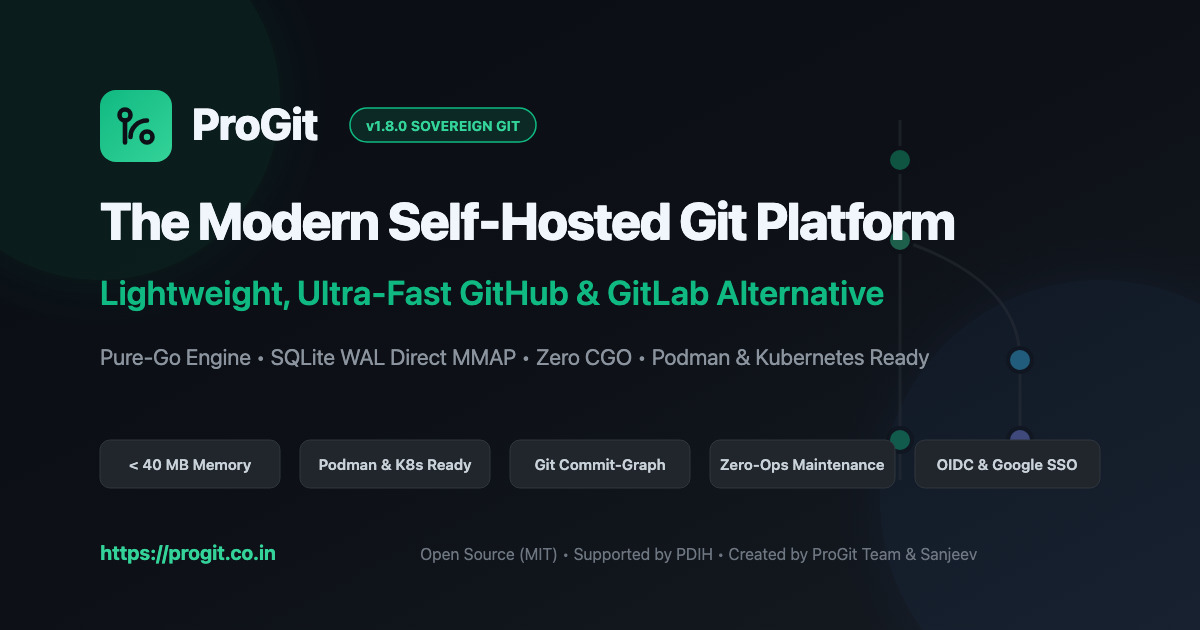
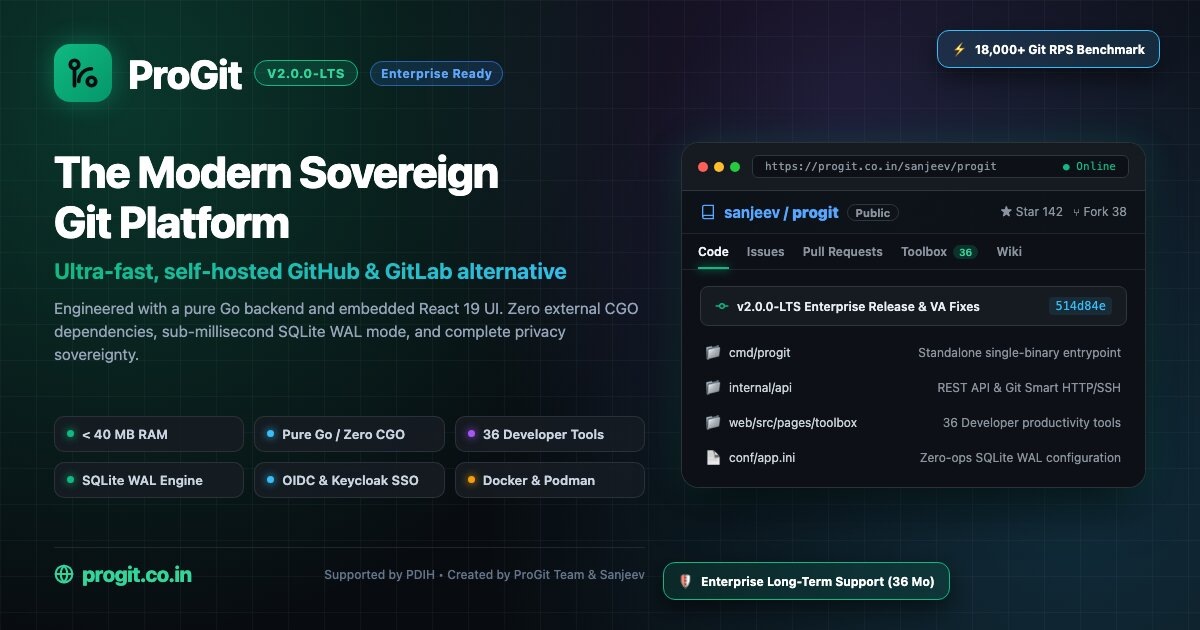
feat(seo): add high-res theme-complimenting Open Graph image and WhatsApp/Facebook meta tags

diff --git a/docs/index.html b/docs/index.html
@@ -24,20 +24,34 @@
   <meta property="og:description" content="Looking for git services or a self-hosted GitHub, Gogs, or Gitea alternative? ProGit is a high-performance Git collaboration platform written in pure Go &amp; React 19 with zero CGO dependencies.">
   <meta property="og:url" content="https://progit.co.in/">
   <meta property="og:site_name" content="ProGit">
+
+  <!-- Primary Image: Highly optimized JPEG for WhatsApp, Facebook, LinkedIn (102 KB < 300 KB limit) -->
+  <meta property="og:image" content="https://progit.co.in/progit-og.jpg">
+  <meta property="og:image:secure_url" content="https://progit.co.in/progit-og.jpg">
+  <meta property="og:image:type" content="image/jpeg">
+  <meta property="og:image:width" content="1200">
+  <meta property="og:image:height" content="630">
+  <meta property="og:image:alt" content="ProGit v2.0.0-LTS — The Modern Sovereign Self-Hosted Git Platform">
+
+  <!-- Secondary PNG fallback -->
   <meta property="og:image" content="https://progit.co.in/progit-og.png">
   <meta property="og:image:secure_url" content="https://progit.co.in/progit-og.png">
   <meta property="og:image:type" content="image/png">
   <meta property="og:image:width" content="1200">
   <meta property="og:image:height" content="630">
-  <meta property="og:image:alt" content="ProGit — The Modern Sovereign Self-Hosted Git Platform">
+
+  <!-- WhatsApp, Telegram & Search Engine Image Link Fallbacks -->
+  <link rel="image_src" href="https://progit.co.in/progit-og.jpg">
+  <meta itemprop="image" content="https://progit.co.in/progit-og.jpg">
+  <meta name="image" content="https://progit.co.in/progit-og.jpg">
 
   <!-- Twitter Card -->
   <meta name="twitter:card" content="summary_large_image">
   <meta name="twitter:url" content="https://progit.co.in/">
   <meta name="twitter:title" content="ProGit — Modern Self-Hosted Git Service | GitHub, Gogs &amp; Gitea Alternative">
   <meta name="twitter:description" content="Lightweight GitHub, Gogs, and Gitea alternative written in pure Go with zero CGO dependencies. < 40 MB RAM, Docker &amp; Podman ready.">
-  <meta name="twitter:image" content="https://progit.co.in/progit-og.png">
-  <meta name="twitter:image:alt" content="ProGit — The Modern Sovereign Self-Hosted Git Platform">
+  <meta name="twitter:image" content="https://progit.co.in/progit-og.jpg">
+  <meta name="twitter:image:alt" content="ProGit v2.0.0-LTS — The Modern Sovereign Self-Hosted Git Platform">
 
   <!-- Schema.org JSON-LD Structured Data for Google Rich Snippets -->
   <script type="application/ld+json">

diff --git a/index.html b/index.html
@@ -24,20 +24,34 @@
   <meta property="og:description" content="Looking for git services or a self-hosted GitHub, Gogs, or Gitea alternative? ProGit is a high-performance Git collaboration platform written in pure Go &amp; React 19 with zero CGO dependencies.">
   <meta property="og:url" content="https://progit.co.in/">
   <meta property="og:site_name" content="ProGit">
+
+  <!-- Primary Image: Highly optimized JPEG for WhatsApp, Facebook, LinkedIn (102 KB < 300 KB limit) -->
+  <meta property="og:image" content="https://progit.co.in/progit-og.jpg">
+  <meta property="og:image:secure_url" content="https://progit.co.in/progit-og.jpg">
+  <meta property="og:image:type" content="image/jpeg">
+  <meta property="og:image:width" content="1200">
+  <meta property="og:image:height" content="630">
+  <meta property="og:image:alt" content="ProGit v2.0.0-LTS — The Modern Sovereign Self-Hosted Git Platform">
+
+  <!-- Secondary PNG fallback -->
   <meta property="og:image" content="https://progit.co.in/progit-og.png">
   <meta property="og:image:secure_url" content="https://progit.co.in/progit-og.png">
   <meta property="og:image:type" content="image/png">
   <meta property="og:image:width" content="1200">
   <meta property="og:image:height" content="630">
-  <meta property="og:image:alt" content="ProGit — The Modern Sovereign Self-Hosted Git Platform">
+
+  <!-- WhatsApp, Telegram & Search Engine Image Link Fallbacks -->
+  <link rel="image_src" href="https://progit.co.in/progit-og.jpg">
+  <meta itemprop="image" content="https://progit.co.in/progit-og.jpg">
+  <meta name="image" content="https://progit.co.in/progit-og.jpg">
 
   <!-- Twitter Card -->
   <meta name="twitter:card" content="summary_large_image">
   <meta name="twitter:url" content="https://progit.co.in/">
   <meta name="twitter:title" content="ProGit — Modern Self-Hosted Git Service | GitHub, Gogs &amp; Gitea Alternative">
   <meta name="twitter:description" content="Lightweight GitHub, Gogs, and Gitea alternative written in pure Go with zero CGO dependencies. < 40 MB RAM, Docker &amp; Podman ready.">
-  <meta name="twitter:image" content="https://progit.co.in/progit-og.png">
-  <meta name="twitter:image:alt" content="ProGit — The Modern Sovereign Self-Hosted Git Platform">
+  <meta name="twitter:image" content="https://progit.co.in/progit-og.jpg">
+  <meta name="twitter:image:alt" content="ProGit v2.0.0-LTS — The Modern Sovereign Self-Hosted Git Platform">
 
   <!-- Schema.org JSON-LD Structured Data for Google Rich Snippets -->
   <script type="application/ld+json">

diff --git a/docs/slides.html b/docs/slides.html
@@ -17,9 +17,10 @@
   <meta property="og:description" content="Comprehensive educational slide deck for ProGit: Pure-Go Git architecture, container installation, Super Administration, 24/7 operations, Developer Toolbox, verified 18k+ RPS performance, and 80% lower TCO.">
   <meta property="og:url" content="https://progit.co.in/slides.html">
   <meta property="og:site_name" content="ProGit">
-  <meta property="og:image" content="https://progit.co.in/progit-og.png">
-  <meta property="og:image:secure_url" content="https://progit.co.in/progit-og.png">
-  <meta property="og:image:type" content="image/png">
+  <meta property="og:image" content="https://progit.co.in/progit-og.jpg">
+  <meta property="og:image:secure_url" content="https://progit.co.in/progit-og.jpg">
+  <meta property="og:image:type" content="image/jpeg">
+  <link rel="image_src" href="https://progit.co.in/progit-og.jpg">
   <meta property="og:image:width" content="1200">
   <meta property="og:image:height" content="630">
   <meta property="og:image:alt" content="ProGit Masterclass — Architecture, Administration &amp; Operations">
@@ -29,7 +30,7 @@
   <meta name="twitter:url" content="https://progit.co.in/slides.html">
   <meta name="twitter:title" content="ProGit Masterclass — Architecture, Administration, Operations &amp; ROI">
   <meta name="twitter:description" content="Comprehensive educational slide deck for ProGit: Pure-Go Git architecture, container installation, Super Administration, 24/7 operations, and verified performance.">
-  <meta name="twitter:image" content="https://progit.co.in/progit-og.png">
+  <meta name="twitter:image" content="https://progit.co.in/progit-og.jpg">
   <meta name="twitter:image:alt" content="ProGit Masterclass — Architecture, Administration &amp; Operations">
   <style>
     :root {

diff --git a/slides.html b/slides.html
@@ -17,9 +17,10 @@
   <meta property="og:description" content="Comprehensive educational slide deck for ProGit: Pure-Go Git architecture, container installation, Super Administration, 24/7 operations, Developer Toolbox, verified 18k+ RPS performance, and 80% lower TCO.">
   <meta property="og:url" content="https://progit.co.in/slides.html">
   <meta property="og:site_name" content="ProGit">
-  <meta property="og:image" content="https://progit.co.in/progit-og.png">
-  <meta property="og:image:secure_url" content="https://progit.co.in/progit-og.png">
-  <meta property="og:image:type" content="image/png">
+  <meta property="og:image" content="https://progit.co.in/progit-og.jpg">
+  <meta property="og:image:secure_url" content="https://progit.co.in/progit-og.jpg">
+  <meta property="og:image:type" content="image/jpeg">
+  <link rel="image_src" href="https://progit.co.in/progit-og.jpg">
   <meta property="og:image:width" content="1200">
   <meta property="og:image:height" content="630">
   <meta property="og:image:alt" content="ProGit Masterclass — Architecture, Administration &amp; Operations">
@@ -29,7 +30,7 @@
   <meta name="twitter:url" content="https://progit.co.in/slides.html">
   <meta name="twitter:title" content="ProGit Masterclass — Architecture, Administration, Operations &amp; ROI">
   <meta name="twitter:description" content="Comprehensive educational slide deck for ProGit: Pure-Go Git architecture, container installation, Super Administration, 24/7 operations, and verified performance.">
-  <meta name="twitter:image" content="https://progit.co.in/progit-og.png">
+  <meta name="twitter:image" content="https://progit.co.in/progit-og.jpg">
   <meta name="twitter:image:alt" content="ProGit Masterclass — Architecture, Administration &amp; Operations">
   <style>
     :root {

diff --git a/docs/tutorial.html b/docs/tutorial.html
@@ -22,9 +22,10 @@
   <meta property="og:description" content="Master Git in minute detail, learn ProGit platform deployment &amp; features, and construct battle-tested CI/CD pipelines with GitHub Actions.">
   <meta property="og:url" content="https://progit.co.in/tutorial.html">
   <meta property="og:site_name" content="ProGit Documentation">
-  <meta property="og:image" content="https://progit.co.in/progit-og.png">
-  <meta property="og:image:secure_url" content="https://progit.co.in/progit-og.png">
-  <meta property="og:image:type" content="image/png">
+  <meta property="og:image" content="https://progit.co.in/progit-og.jpg">
+  <meta property="og:image:secure_url" content="https://progit.co.in/progit-og.jpg">
+  <meta property="og:image:type" content="image/jpeg">
+  <link rel="image_src" href="https://progit.co.in/progit-og.jpg">
   <meta property="og:image:width" content="1200">
   <meta property="og:image:height" content="630">
   <meta property="og:image:alt" content="Complete Git, ProGit &amp; CI/CD Interactive Masterclass">
@@ -34,7 +35,7 @@
   <meta name="twitter:url" content="https://progit.co.in/tutorial.html">
   <meta name="twitter:title" content="Complete Git, ProGit &amp; CI/CD Interactive Slide Masterclass">
   <meta name="twitter:description" content="Master Git in minute detail, learn ProGit platform deployment &amp; features, and construct battle-tested CI/CD pipelines with GitHub Actions.">
-  <meta name="twitter:image" content="https://progit.co.in/progit-og.png">
+  <meta name="twitter:image" content="https://progit.co.in/progit-og.jpg">
   <meta name="twitter:image:alt" content="Complete Git, ProGit &amp; CI/CD Interactive Masterclass">
 
   <style>

diff --git a/tutorial.html b/tutorial.html
@@ -22,9 +22,10 @@
   <meta property="og:description" content="Master Git in minute detail, learn ProGit platform deployment &amp; features, and construct battle-tested CI/CD pipelines with GitHub Actions.">
   <meta property="og:url" content="https://progit.co.in/tutorial.html">
   <meta property="og:site_name" content="ProGit Documentation">
-  <meta property="og:image" content="https://progit.co.in/progit-og.png">
-  <meta property="og:image:secure_url" content="https://progit.co.in/progit-og.png">
-  <meta property="og:image:type" content="image/png">
+  <meta property="og:image" content="https://progit.co.in/progit-og.jpg">
+  <meta property="og:image:secure_url" content="https://progit.co.in/progit-og.jpg">
+  <meta property="og:image:type" content="image/jpeg">
+  <link rel="image_src" href="https://progit.co.in/progit-og.jpg">
   <meta property="og:image:width" content="1200">
   <meta property="og:image:height" content="630">
   <meta property="og:image:alt" content="Complete Git, ProGit &amp; CI/CD Interactive Masterclass">
@@ -34,7 +35,7 @@
   <meta name="twitter:url" content="https://progit.co.in/tutorial.html">
   <meta name="twitter:title" content="Complete Git, ProGit &amp; CI/CD Interactive Slide Masterclass">
   <meta name="twitter:description" content="Master Git in minute detail, learn ProGit platform deployment &amp; features, and construct battle-tested CI/CD pipelines with GitHub Actions.">
-  <meta name="twitter:image" content="https://progit.co.in/progit-og.png">
+  <meta name="twitter:image" content="https://progit.co.in/progit-og.jpg">
   <meta name="twitter:image:alt" content="Complete Git, ProGit &amp; CI/CD Interactive Masterclass">
 
   <style>

diff --git a/docs/sme-presentation.html b/docs/sme-presentation.html
@@ -17,9 +17,10 @@
   <meta property="og:description" content="Interactive Sales &amp; Product Presentation for ProGit: High-performance, self-hosted Git collaboration platform for SMEs, IT agencies, and startups.">
   <meta property="og:url" content="https://progit.co.in/sme-presentation.html">
   <meta property="og:site_name" content="ProGit">
-  <meta property="og:image" content="https://progit.co.in/progit-og.png">
-  <meta property="og:image:secure_url" content="https://progit.co.in/progit-og.png">
-  <meta property="og:image:type" content="image/png">
+  <meta property="og:image" content="https://progit.co.in/progit-og.jpg">
+  <meta property="og:image:secure_url" content="https://progit.co.in/progit-og.jpg">
+  <meta property="og:image:type" content="image/jpeg">
+  <link rel="image_src" href="https://progit.co.in/progit-og.jpg">
   <meta property="og:image:width" content="1200">
   <meta property="og:image:height" content="630">
   <meta property="og:image:alt" content="ProGit for SMEs &amp; Agencies — Product &amp; Sales Deck">
@@ -29,7 +30,7 @@
   <meta name="twitter:url" content="https://progit.co.in/sme-presentation.html">
   <meta name="twitter:title" content="ProGit for SMEs &amp; Agencies — Product &amp; Sales Deck">
   <meta name="twitter:description" content="High-performance, self-hosted Git collaboration platform for SMEs, IT agencies, and startups.">
-  <meta name="twitter:image" content="https://progit.co.in/progit-og.png">
+  <meta name="twitter:image" content="https://progit.co.in/progit-og.jpg">
   <meta name="twitter:image:alt" content="ProGit for SMEs &amp; Agencies — Product &amp; Sales Deck">
   <style>
     :root {

diff --git a/sme-presentation.html b/sme-presentation.html
@@ -17,9 +17,10 @@
   <meta property="og:description" content="Interactive Sales &amp; Product Presentation for ProGit: High-performance, self-hosted Git collaboration platform for SMEs, IT agencies, and startups.">
   <meta property="og:url" content="https://progit.co.in/sme-presentation.html">
   <meta property="og:site_name" content="ProGit">
-  <meta property="og:image" content="https://progit.co.in/progit-og.png">
-  <meta property="og:image:secure_url" content="https://progit.co.in/progit-og.png">
-  <meta property="og:image:type" content="image/png">
+  <meta property="og:image" content="https://progit.co.in/progit-og.jpg">
+  <meta property="og:image:secure_url" content="https://progit.co.in/progit-og.jpg">
+  <meta property="og:image:type" content="image/jpeg">
+  <link rel="image_src" href="https://progit.co.in/progit-og.jpg">
   <meta property="og:image:width" content="1200">
   <meta property="og:image:height" content="630">
   <meta property="og:image:alt" content="ProGit for SMEs &amp; Agencies — Product &amp; Sales Deck">
@@ -29,7 +30,7 @@
   <meta name="twitter:url" content="https://progit.co.in/sme-presentation.html">
   <meta name="twitter:title" content="ProGit for SMEs &amp; Agencies — Product &amp; Sales Deck">
   <meta name="twitter:description" content="High-performance, self-hosted Git collaboration platform for SMEs, IT agencies, and startups.">
-  <meta name="twitter:image" content="https://progit.co.in/progit-og.png">
+  <meta name="twitter:image" content="https://progit.co.in/progit-og.jpg">
   <meta name="twitter:image:alt" content="ProGit for SMEs &amp; Agencies — Product &amp; Sales Deck">
   <style>
     :root {

diff --git a/docs/omc.html b/docs/omc.html
@@ -15,9 +15,10 @@
   <meta property="og:description" content="Dedicated Enterprise Feature &amp; Use Case Presentation for OMC: High-performance, air-gapped, on-premise Git collaboration platform.">
   <meta property="og:url" content="https://progit.co.in/omc.html">
   <meta property="og:site_name" content="ProGit">
-  <meta property="og:image" content="https://progit.co.in/progit-og.png">
-  <meta property="og:image:secure_url" content="https://progit.co.in/progit-og.png">
-  <meta property="og:image:type" content="image/png">
+  <meta property="og:image" content="https://progit.co.in/progit-og.jpg">
+  <meta property="og:image:secure_url" content="https://progit.co.in/progit-og.jpg">
+  <meta property="og:image:type" content="image/jpeg">
+  <link rel="image_src" href="https://progit.co.in/progit-og.jpg">
   <meta property="og:image:width" content="1200">
   <meta property="og:image:height" content="630">
   <meta property="og:image:alt" content="ProGit for OMC — Enterprise Sovereign Git Platform">
@@ -27,7 +28,7 @@
   <meta name="twitter:url" content="https://progit.co.in/omc.html">
   <meta name="twitter:title" content="ProGit for OMC — Enterprise Sovereign Git &amp; DevOps Platform">
   <meta name="twitter:description" content="Dedicated Enterprise Feature &amp; Use Case Presentation for OMC: High-performance, air-gapped, on-premise Git collaboration platform.">
-  <meta name="twitter:image" content="https://progit.co.in/progit-og.png">
+  <meta name="twitter:image" content="https://progit.co.in/progit-og.jpg">
   <meta name="twitter:image:alt" content="ProGit for OMC — Enterprise Sovereign Git Platform">
   <style>
     :root {

diff --git a/docs/presentation.html b/docs/presentation.html
@@ -17,9 +17,10 @@
   <meta property="og:description" content="Interactive Executive and Sales Presentation for ProGit: Modern, sovereign Git collaboration platform with High Availability, zero CGO, and 80% lower TCO.">
   <meta property="og:url" content="https://progit.co.in/presentation.html">
   <meta property="og:site_name" content="ProGit">
-  <meta property="og:image" content="https://progit.co.in/progit-og.png">
-  <meta property="og:image:secure_url" content="https://progit.co.in/progit-og.png">
-  <meta property="og:image:type" content="image/png">
+  <meta property="og:image" content="https://progit.co.in/progit-og.jpg">
+  <meta property="og:image:secure_url" content="https://progit.co.in/progit-og.jpg">
+  <meta property="og:image:type" content="image/jpeg">
+  <link rel="image_src" href="https://progit.co.in/progit-og.jpg">
   <meta property="og:image:width" content="1200">
   <meta property="og:image:height" content="630">
   <meta property="og:image:alt" content="ProGit Enterprise — Executive &amp; Sales Presentation">
@@ -29,7 +30,7 @@
   <meta name="twitter:url" content="https://progit.co.in/presentation.html">
   <meta name="twitter:title" content="ProGit Enterprise — Executive &amp; Sales Presentation">
   <meta name="twitter:description" content="Modern, sovereign Git collaboration platform with High Availability, zero CGO, and 80% lower TCO.">
-  <meta name="twitter:image" content="https://progit.co.in/progit-og.png">
+  <meta name="twitter:image" content="https://progit.co.in/progit-og.jpg">
   <meta name="twitter:image:alt" content="ProGit Enterprise — Executive &amp; Sales Presentation">
   <style>
     :root {

diff --git a/omc.html b/omc.html
@@ -15,9 +15,10 @@
   <meta property="og:description" content="Dedicated Enterprise Feature &amp; Use Case Presentation for OMC: High-performance, air-gapped, on-premise Git collaboration platform.">
   <meta property="og:url" content="https://progit.co.in/omc.html">
   <meta property="og:site_name" content="ProGit">
-  <meta property="og:image" content="https://progit.co.in/progit-og.png">
-  <meta property="og:image:secure_url" content="https://progit.co.in/progit-og.png">
-  <meta property="og:image:type" content="image/png">
+  <meta property="og:image" content="https://progit.co.in/progit-og.jpg">
+  <meta property="og:image:secure_url" content="https://progit.co.in/progit-og.jpg">
+  <meta property="og:image:type" content="image/jpeg">
+  <link rel="image_src" href="https://progit.co.in/progit-og.jpg">
   <meta property="og:image:width" content="1200">
   <meta property="og:image:height" content="630">
   <meta property="og:image:alt" content="ProGit for OMC — Enterprise Sovereign Git Platform">
@@ -27,7 +28,7 @@
   <meta name="twitter:url" content="https://progit.co.in/omc.html">
   <meta name="twitter:title" content="ProGit for OMC — Enterprise Sovereign Git &amp; DevOps Platform">
   <meta name="twitter:description" content="Dedicated Enterprise Feature &amp; Use Case Presentation for OMC: High-performance, air-gapped, on-premise Git collaboration platform.">
-  <meta name="twitter:image" content="https://progit.co.in/progit-og.png">
+  <meta name="twitter:image" content="https://progit.co.in/progit-og.jpg">
   <meta name="twitter:image:alt" content="ProGit for OMC — Enterprise Sovereign Git Platform">
   <style>
     :root {

diff --git a/presentation.html b/presentation.html
@@ -17,9 +17,10 @@
   <meta property="og:description" content="Interactive Executive and Sales Presentation for ProGit: Modern, sovereign Git collaboration platform with High Availability, zero CGO, and 80% lower TCO.">
   <meta property="og:url" content="https://progit.co.in/presentation.html">
   <meta property="og:site_name" content="ProGit">
-  <meta property="og:image" content="https://progit.co.in/progit-og.png">
-  <meta property="og:image:secure_url" content="https://progit.co.in/progit-og.png">
-  <meta property="og:image:type" content="image/png">
+  <meta property="og:image" content="https://progit.co.in/progit-og.jpg">
+  <meta property="og:image:secure_url" content="https://progit.co.in/progit-og.jpg">
+  <meta property="og:image:type" content="image/jpeg">
+  <link rel="image_src" href="https://progit.co.in/progit-og.jpg">
   <meta property="og:image:width" content="1200">
   <meta property="og:image:height" content="630">
   <meta property="og:image:alt" content="ProGit Enterprise — Executive &amp; Sales Presentation">
@@ -29,7 +30,7 @@
   <meta name="twitter:url" content="https://progit.co.in/presentation.html">
   <meta name="twitter:title" content="ProGit Enterprise — Executive &amp; Sales Presentation">
   <meta name="twitter:description" content="Modern, sovereign Git collaboration platform with High Availability, zero CGO, and 80% lower TCO.">
-  <meta name="twitter:image" content="https://progit.co.in/progit-og.png">
+  <meta name="twitter:image" content="https://progit.co.in/progit-og.jpg">
   <meta name="twitter:image:alt" content="ProGit Enterprise — Executive &amp; Sales Presentation">
   <style>
     :root {
